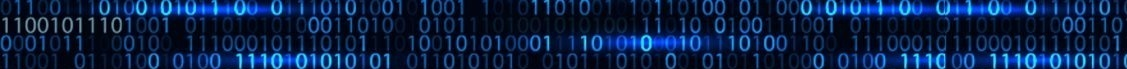
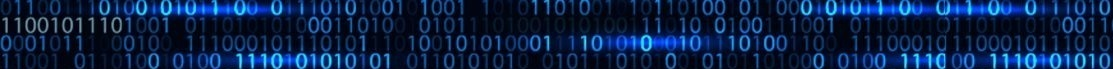
better

diff --git a/public/CSS/finalwm.css b/public/CSS/finalwm.css
@@ -68,7 +68,7 @@ footer{
 
 .holder{
 
-   width: 1120px;
+   width: 1110px;
     margin: 0 auto;
 }
 
